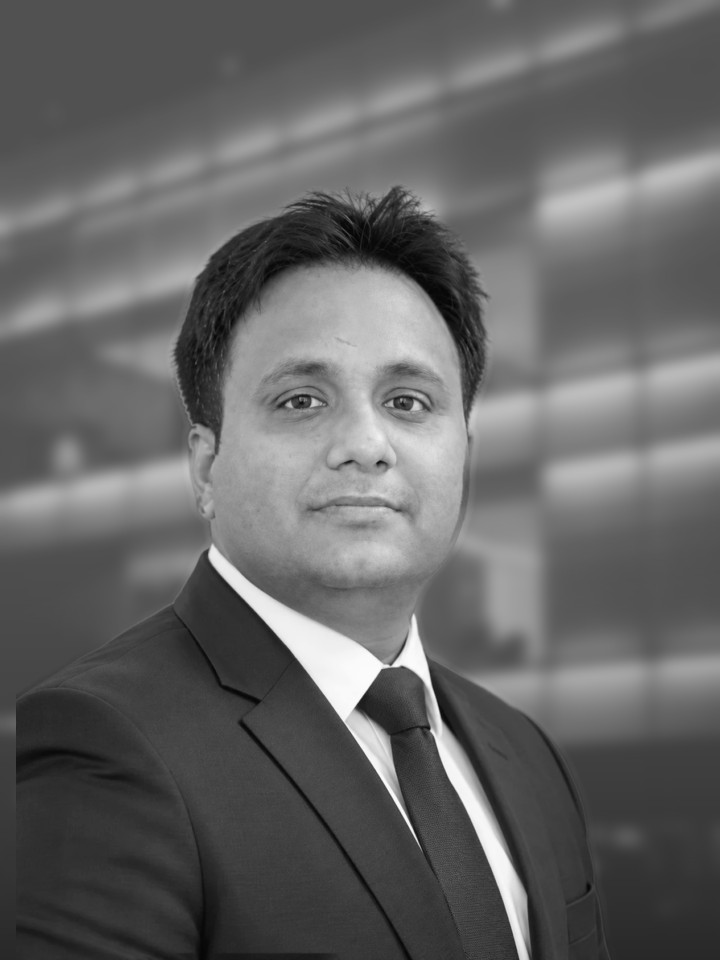
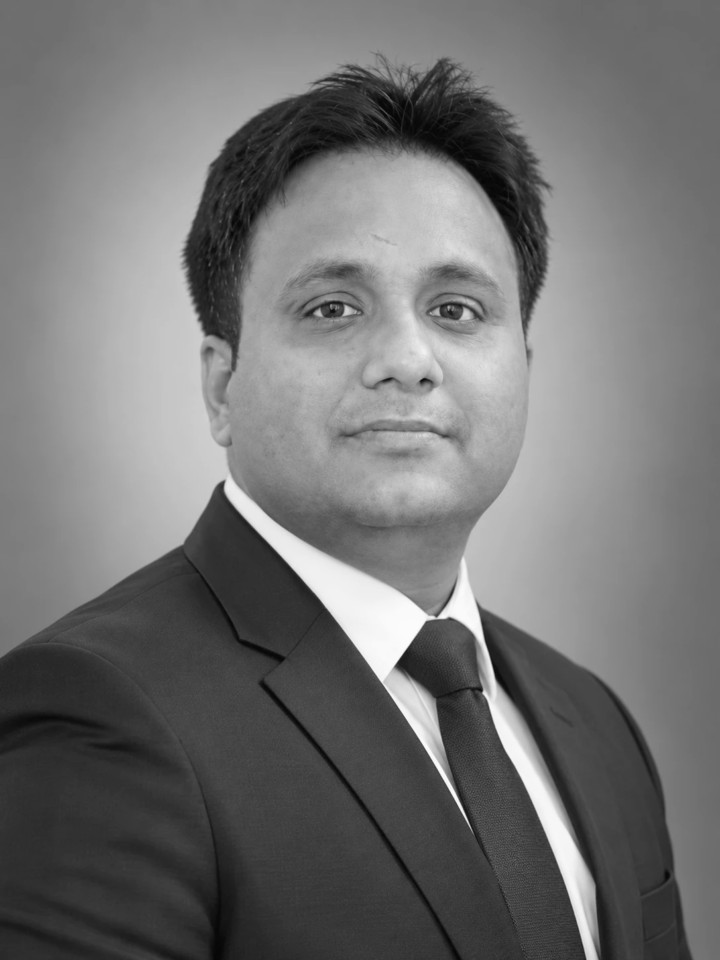
Give everyone back the wall they were photographed against
The glass facade is gone. The 2026 sitting was shot against one studio
grey, so those eight frames now keep exactly the background they came
with — nothing cut, nothing composited. Only Asif and Sumit, who were
photographed in other years and other rooms, are still cut out, and the
grey they are set on is fitted from three frames of the sitting rather
than invented.

With nothing behind them, a photograph has to reach every edge itself:
the crop scales up until it does and is held over the frame, so nothing
is padded and no edge is empty. The cost is head size — a tightly shot
frame now keeps a larger head, 28% to 44% across the wall instead of a
flat 28%. Framing rule, greyscale and exposure matching are otherwise
unchanged.

The backdrop image goes with it: the Unsplash source, the copy under
public, its credit, and the builder that defocused it. The placeholder
tile in globals.css takes the same studio grey, though no card needs it.

diff --git a/app/globals.css b/app/globals.css
@@ -2630,10 +2630,11 @@ html.is-locked body{overflow:hidden!important;height:100%!important;
 /* Greyscale in CSS, not on disk: nine photographs shot in nine places read as
    one set this way, and the colour originals stay untouched. */
 /* Stands in for a headshot the client has not sent: the person's initials on
-   the very backdrop the portraits are composited onto, so the empty card sits
-   in the row instead of glaring out of it. */
+   the studio grey the portraits were shot against, so an empty card sits in
+   the row instead of glaring out of it. Nothing uses it today. */
 .tr-init{position:absolute;inset:0;display:grid;place-items:center;
-  background:#6f6f6f url(/team/backdrop.jpg) center/cover no-repeat;
+  background:radial-gradient(118% 82% at 50% 34%,
+    #8b8f92 0%,#75797d 46%,#5c6064 74%,#3b3e42 100%);
   color:#E4E7EA;font-weight:300;font-size:2.4444rem;letter-spacing:.02em;
   text-shadow:0 1px 10px rgba(13,24,40,.45)}
 .tr-shot img{object-fit:cover;filter:grayscale(1) contrast(1.04);

diff --git a/scripts/portraits/build.py b/scripts/portraits/build.py
@@ -16,7 +16,7 @@ import os, subprocess, sys
 import numpy as np
 from PIL import Image, ImageFilter
 from scipy import ndimage
-from backdrop import backdrop, fit, surface
+from backdrop import fit, surface
 
 D = os.path.dirname(os.path.abspath(__file__))
 SRC = os.environ.get('PORTRAIT_SRC', '.')
@@ -24,20 +24,29 @@ OUT = f'{D}/out'
 
 # person -> original photograph. Asif's is the pre-2026 original, in git history
 # before "Put every portrait on one backdrop"; everyone else was reshot.
+# person -> original photograph, and whether we have to put a ground under
+# them. The 2026 sitting was shot against one studio wall, so those frames keep
+# exactly the backdrop they came with. Asif's near-black wall and Sumit's office
+# window are from other years and other rooms; those two, and only those two,
+# are cut out and set on a grey fitted from the sitting itself.
 PEOPLE = [
-    ('sumit-chatterjee',  'sumit-chatterjee.jpg'),
-    ('ramesh-yadav',      'ramesh-yadav.webp'),
-    ('amit-garg',         'amit-garg.webp'),
-    ('dhawal-parvatikar', 'dhawal-parvatikar.webp'),
-    ('asif-masani',       'asif-masani.jpg'),
-    ('sanjay-rikhy',      'sanjay-rikhy.webp'),
-    ('geeta-karnik',      'geeta-karnik.webp'),
-    ('saurabh-aggarwal',  'saurabh-aggarwal.webp'),
+    ('sumit-chatterjee',  'sumit-chatterjee.jpg', True),
+    ('ramesh-yadav',      'ramesh-yadav.webp',    False),
+    ('amit-garg',         'amit-garg.webp',       False),
+    ('dhawal-parvatikar', 'dhawal-parvatikar.webp', False),
+    ('asif-masani',       'asif-masani.jpg',      True),
+    ('sanjay-rikhy',      'sanjay-rikhy.webp',    False),
+    ('geeta-karnik',      'geeta-karnik.webp',    False),
+    ('saurabh-aggarwal',  'saurabh-aggarwal.webp', False),
 ]
 FOUNDERS = [
-    ('gaurav-malik-bw',     'gaurav-malik-bw.jpg'),
-    ('abhinav-aggarwal-bw', 'abhinav-aggarwal-bw.webp'),
+    ('gaurav-malik-bw',     'gaurav-malik-bw.jpg',     False),
+    ('abhinav-aggarwal-bw', 'abhinav-aggarwal-bw.webp', False),
 ]
+
+# The frames the studio grey is fitted from: three of the sitting, so one
+# photograph's lighting cannot skew it.
+GROUND_FROM = ['saurabh-aggarwal.webp', 'amit-garg.webp', 'geeta-karnik.webp']
 
 FACE_FRAC = 0.28        # the face box's share of the frame, where the photograph allows
 FACE_FRAC_MAX = 0.38    # …and the most it may grow to fill a tightly shot frame
@@ -48,6 +57,25 @@ GAMMA_CEIL = 1.20
 CARD = (720, 960)       # 3:4, the adviser card
 BIG = (800, 1040)       # 10:13, the founder card
 BAND, TOL = 12, 16      # edge refinement: px either side of the mask, grey levels
+
+def studio_grey(size):
+    """The sitting's own wall, fitted as a smooth surface.
+
+    Sampled from the margins and top band of three frames — never near a face —
+    and averaged, so the ground under Asif and Sumit is the same grey the other
+    eight were actually photographed against rather than a colour we invented.
+    """
+    X, Y, V = [], [], []
+    for src in GROUND_FROM:
+        a = levels(np.asarray(Image.open(f'{SRC}/{src}').convert('L'), dtype=float))
+        h, w = a.shape
+        ys, xs = np.mgrid[0:h, 0:w]
+        x, y = xs / w, ys / h
+        keep = ((x < 0.10) | (x > 0.90) | (y < 0.20)) & ~((((x - .5) / .36) ** 2 + ((y - .45) / .44) ** 2) < 1)
+        X.append(x[keep]); Y.append(y[keep]); V.append(a[keep])
+    x, y, v = np.concatenate(X), np.concatenate(Y), np.concatenate(V)
+    c = fit(x, y, v)
+    return surface(c, *size)
 
 def face(path):
     line = subprocess.run([f'{D}/faces', path], capture_output=True, text=True).stdout.strip()
@@ -113,7 +141,7 @@ def alpha(a, m):
         ImageFilter.GaussianBlur(1.0)), dtype=float) / 255
     return al, bg
 
-def place(layers, box, size):
+def place(layers, box, size, cover=False):
     """Scale and position the subject.
 
     Two rules pull against each other: the head should be the same size on every
@@ -129,10 +157,19 @@ def place(layers, box, size):
     k_fill = (1 - FACE_Y) * H / below                     # …just enough to reach the foot
     k = max((FACE_FRAC * H) / fh, min(k_fill, (FACE_FRAC_MAX * H) / fh))
     src_h, src_w = layers[0].shape
+    if cover:
+        # Nothing is composited behind this one, so the photograph itself has to
+        # reach every edge: never scale it smaller than the frame.
+        k = max(k, W / src_w, H / src_h)
     sw, sh = round(src_w * k), round(src_h * k)
     res = lambda arr: np.asarray(Image.fromarray(arr.astype('float32'), 'F').resize((sw, sh), Image.BILINEAR), dtype=float)
     ox = round(W / 2 - (fx + fw / 2) * k)
     oy = round(max(FACE_Y * H - (fy + fh / 2) * k, H - sh))   # never leave a gap at the foot
+    if cover:
+        # Centring on the face can still push the photograph off an edge; with
+        # nothing behind it, that edge would be empty. Hold it over the frame.
+        ox = min(0, max(ox, W - sw))
+        oy = min(0, max(oy, H - sh))
     x0, y0, sx0, sy0 = max(ox, 0), max(oy, 0), max(-ox, 0), max(-oy, 0)
     w, h = min(sw - sx0, W - x0), min(sh - sy0, H - y0)
     out = []
@@ -142,26 +179,33 @@ def place(layers, box, size):
         out.append(dst)
     return out, (oy + (fy + fh / 2) * k) / H, fh * k / H
 
-def make(name, src, size):
+def make(name, src, size, ground):
     path = f'{SRC}/{src}'
     box = face(path)
-    m = person(path)
     a, med, g = expose(levels(np.asarray(Image.open(path).convert('L'), dtype=float)), box)
-    al, bg = alpha(a, m)
-    (lay, lam, bgp), depth, frac = place([a, al, bg], box, size)
-    # Un-mix rather than blend. An edge pixel is a mix of the person and the
-    # backdrop they were shot against, so take that backdrop back out in the
-    # same proportion and put this one in: I + (1-a)(new - old). Where the
-    # mask is opaque nothing moves; where it is clear the old wall is replaced
-    # outright; in the band between, the ring simply is not there to see.
-    out = np.clip(lay + (1 - lam) * (backdrop(*size) - bgp), 0, 255)
+
+    if not ground:
+        # The photograph as it was taken: its own wall, cropped to the card.
+        (lay,), depth, frac = place([a], box, size, cover=True)
+        out = np.clip(lay, 0, 255)
+    else:
+        al, bg = alpha(a, person(path))
+        (lay, lam, bgp), depth, frac = place([a, al, bg], box, size)
+        # Un-mix rather than blend. An edge pixel is a mix of the person and the
+        # backdrop they were shot against, so take that backdrop back out in the
+        # same proportion and put this one in: I + (1-a)(new - old). Where the
+        # mask is opaque nothing moves; where it is clear the old wall is
+        # replaced outright; in the band between, the ring is not there to see.
+        out = np.clip(lay + (1 - lam) * (studio_grey(size) - bgp), 0, 255)
+
     os.makedirs(OUT, exist_ok=True)
     Image.fromarray(out.astype('uint8')).save(f'{OUT}/{name}.jpg', quality=90, optimize=True, progressive=True)
-    print(f'{name:20} face {med:3.0f} (gamma {g:.2f})  head {frac*100:.0f}% of frame, {depth*100:.0f}% down')
+    where = 'on the sitting\u2019s grey' if ground else 'as shot'
+    print(f'{name:20} face {med:3.0f} (gamma {g:.2f})  head {frac*100:.0f}% of frame, {depth*100:.0f}% down  {where}')
 
 if __name__ == '__main__':
     want = set(sys.argv[1:])
-    for name, src in PEOPLE:
-        if not want or name in want: make(name, src, CARD)
-    for name, src in FOUNDERS:
-        if not want or name in want: make(name, src, BIG)
+    for name, src, ground in PEOPLE:
+        if not want or name in want: make(name, src, CARD, ground)
+    for name, src, ground in FOUNDERS:
+        if not want or name in want: make(name, src, BIG, ground)

diff --git a/scripts/portraits/backdrop.py b/scripts/portraits/backdrop.py
@@ -1,45 +1,24 @@
-"""The backdrop every portrait is composited onto.
+"""Reading a photograph's own background as a smooth surface.
 
-A glass office facade, thrown out of focus: the client asked for somewhere
-rather than a studio wall. `backdrop-source.jpg` is the photograph, from
-Unsplash (unsplash.com/photos/... , Unsplash License, free for commercial use);
-CREDITS.md records it.
+Ten portraits from three sittings sit on the wall they were each shot against;
+only the two strangers to the 2026 sitting are cut out and set on a grey, and
+that grey is fitted from the sitting itself (`studio_grey` in build.py). This
+module is the quadratic those fits use — the same one that reads a
+photograph's own backdrop at the silhouette's edge.
 
-Defocus, flattened contrast and a foot that falls away are all so the thing
-stays a backdrop — the building should read at a glance and never compete with
-a face. `fit`/`surface` are the quadratic used elsewhere to read a PHOTOGRAPH's
-own background at the silhouette's edge.
+Until 2026-09-24 it also built a defocused glass facade that every portrait was
+composited onto. The client asked for the photographs as taken, so the facade
+and its source image are gone.
 """
-from PIL import Image, ImageFilter
-import numpy as np, os
-D = os.path.dirname(os.path.abspath(__file__))
+import numpy as np
 
-BLUR = 7          # px at 720x960
-CONTRAST = 0.62   # of the original's spread
-BASE = 118        # mid grey the backdrop sits around
-FOOT = 0.50       # how far the bottom falls, for the caption to sit on
-OFFSET = 0.35     # where the crop sits down the source frame
-
-def backdrop(w, h):
-    im = Image.open(f'{D}/backdrop-source.jpg').convert('L')
-    k = max(w / im.width, h / im.height)
-    im = im.resize((round(im.width * k), round(im.height * k)), Image.LANCZOS)
-    x, y = (im.width - w) // 2, round((im.height - h) * OFFSET)
-    im = im.crop((x, y, x + w, y + h)).filter(ImageFilter.GaussianBlur(BLUR * w / 720))
-    a = np.asarray(im, dtype=float)
-    a = BASE + (a - a.mean()) * CONTRAST
-    ys = np.linspace(0, 1, h)[:, None]
-    return a * (1 - FOOT * np.clip((ys - .5) / .5, 0, 1) ** 1.5)
 
 def fit(x, y, v):
     A = np.stack([np.ones_like(x), x, y, x * x, x * y, y * y], 1)
     return np.linalg.lstsq(A, v, rcond=None)[0]
 
+
 def surface(c, w, h):
     ys, xs = np.mgrid[0:h, 0:w]
     x, y = xs / w, ys / h
     return c[0] + c[1] * x + c[2] * y + c[3] * x * x + c[4] * x * y + c[5] * y * y
-
-if __name__ == '__main__':
-    Image.fromarray(np.clip(backdrop(720, 960), 0, 255).astype('uint8')).save(f'{D}/backdrop.png')
-    print('wrote backdrop.png')

diff --git a/scripts/portraits/README.md b/scripts/portraits/README.md
@@ -1,47 +1,36 @@
 # Portraits
 
-Every headshot on /team goes through this, so nine photographs from six shoots
-read as one set: greyscale, one exposure, one framing, and one backdrop.
+Every headshot on /team goes through this, so photographs from three sittings
+read as one set: greyscale, one crop rule, one exposure, and — for the two that
+were not part of the 2026 sitting — one studio grey behind them.
 
 ```
-swiftc -O faces.swift -o faces                 # Vision: face boxes
-swiftc -O segment.swift -o segment             # Vision: person masks
-PORTRAIT_SRC=<folder of originals> python3 build.py [name…]
-cp out/*.jpg ../../public/team/
+swiftc -O faces.swift -o faces          # Vision: face boxes, for the crop
+swiftc -O segment.swift -o segment      # Vision: person masks, for the two
+PORTRAIT_SRC=<folder of originals> python3 build.py
 ```
 
-Work from the **originals**, never from `public/team/` — this pass over its own
-output applies the exposure, the cut and the backdrop twice. The pre-2026
-originals (Asif, the two founders) are in git history, before the commit "Put
-every portrait on one backdrop".
+Always run from the ORIGINALS. Running this over its own output compounds every
+pass.
 
-**Framing.** `FACE_FRAC` is the face box's share of the frame and `FACE_Y` is
-where it sits down it. Two rules pull against each other — same head size on
-every card, same face height on every card — and a photograph shot tight has no
-body left to fill the frame once its head is small enough. A torso cannot be
-invented, so head size is what gives: it opens up to `FACE_FRAC` wherever the
-photograph allows and grows toward `FACE_FRAC_MAX` only as far as filling the
-frame demands. Amit's and Sanjay's frames are the tight ones; wider originals
-from the photographer would let them match the rest.
+`PEOPLE` and `FOUNDERS` in build.py hold the roster; the third column is
+whether that photograph needs a ground under it. It is `False` for the 2026
+sitting, whose frames keep exactly the wall they were shot against, and `True`
+only for Asif (a near-black wall) and Sumit (an office window) — those two are
+cut out with Vision's person segmentation and set on a grey fitted from three
+frames of the sitting, so they sit with the rest.
 
-**Exposure.** A gamma that moves each face's median toward `FACE_TONE`, clamped
-by `GAMMA_FLOOR`/`GAMMA_CEIL`, so a dark frame moves most of the way and never
-all of it. A face pushed all the way to a target is not an exposure correction —
-it changes how the person looks.
+`FACE_FRAC` and `FACE_Y` set the framing. A photograph that cannot fill the
+card at that framing is scaled up until it does rather than being padded, so a
+tightly shot frame keeps a larger head — nothing is invented at the edges.
 
-**The cut.** Vision's person segmentation gives the silhouette; a threshold
-matte ate Asif's hair and glasses, since his wall and his suit sit in the same
-values. The edge is then refined against the photograph's own background,
-fitted as a quadratic: a pixel near the edge that still matches that background
-is background, however the mask called it. Without that step the mask carries a
-few pixels of the original backdrop and leaves a halo hugging the silhouette.
+`expose` moves each face's median toward `FACE_TONE`, clamped, so a dark frame
+moves most of the way and never all of it: a face pushed all the way to a
+target is not an exposure correction, it changes how the person looks.
 
-**The backdrop** is `backdrop.py`: a glass office facade thrown out of focus,
-flattened and falling away at the foot so it never competes with a face. See
-CREDITS.md. `public/team/backdrop.jpg` is the same thing with nobody on it — the
-`.tr-init` placeholder tile in globals.css uses it, so a card with no photograph
-still belongs in the row.
+The `.tr-init` placeholder tile in globals.css approximates the same grey, for
+a card with no photograph. None has one today.
 
-New photograph: put the original beside the others, add it to the list in
-`build.py`, run it, copy the result over. Check the result at 720×960 before
-shipping it — segmentation is good, not perfect.
+New photograph: add it to the list in `build.py`, run the two steps, copy the
+result into `public/team/`. Check the result at 720x960 before shipping it —
+segmentation is good, not perfect.

diff --git a/scripts/portraits/CREDITS.md b/scripts/portraits/CREDITS.md
@@ -1,9 +1,3 @@
 # Image credits
 
-`scripts/portraits/backdrop-source.jpg` — glass office facade, from Unsplash
-(https://unsplash.com/photos/1645497781181-d6684ebd1863), used under the
-Unsplash License: free to use commercially, no permission or attribution
-required. It is not served; it is composited behind the roster portraits, out
-of focus, by `scripts/portraits/build.py`.
-
 `public/page-art/*.webp` — the page-head artwork, unchanged by this.
